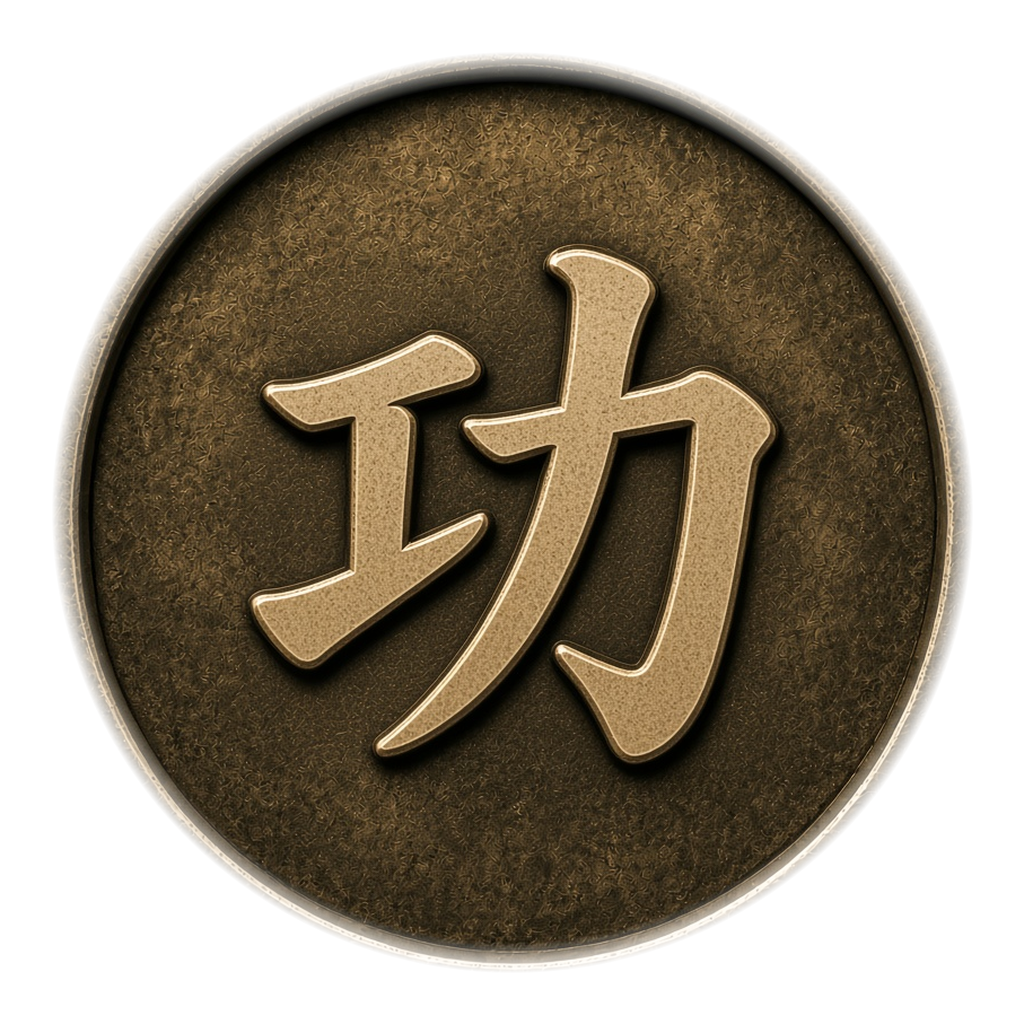
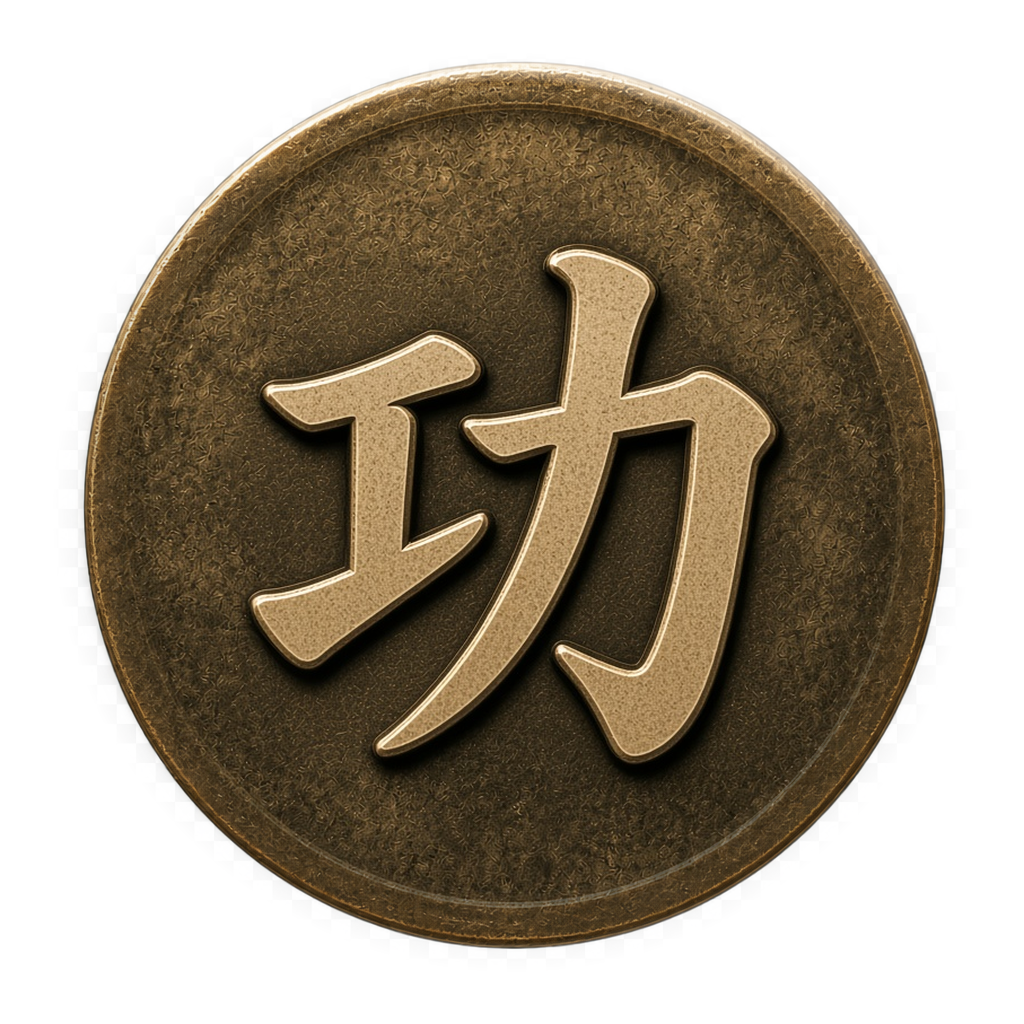
Musiq

Changed region(s): [[0.0312, 0.0312, 0.9688, 0.9688]]

diff --git a/src/styles/viewer.css b/src/styles/viewer.css
@@ -30,6 +30,7 @@ body {
   --badge-jing: url('/ui/silver/badge-jing.png');
   --badge-zhi: url('/ui/silver/badge-zhi.png');
   --badge-gong: url('/ui/silver/badge-gong.png');
+  --badge-yin: url('/ui/silver/badge-yin.png');
   --minimap-paper: url('/ui/silver/paper.png');
   /* Silver metal 令牌 + coloured ribbons */
   --lingpai-handi: url('/ui/silver/handi-lingpai.png');
@@ -56,6 +57,7 @@ body {
   --badge-jing: url('/ui/bronze/badge-jing.png');
   --badge-zhi: url('/ui/bronze/badge-zhi.png');
   --badge-gong: url('/ui/bronze/badge-gong.png');
+  --badge-yin: url('/ui/bronze/badge-yin.png');
   --minimap-paper: url('/ui/bronze/paper.png');
   /* Ebony wood 令牌 + coloured ribbons (original tablets) */
   --lingpai-handi: url('/ui/bronze/handi-lingpai.png');
@@ -225,6 +227,15 @@ body {
   background-image: var(--badge-gong);
 }
 #btn-credits[aria-pressed='true'] {
+  filter: drop-shadow(0 2px 4px var(--badge-shadow)) brightness(1.08);
+}
+#btn-music {
+  background-image: var(--badge-yin);
+}
+#btn-music[aria-pressed='false'] {
+  opacity: 0.8;
+}
+#btn-music[aria-pressed='true'] {
   filter: drop-shadow(0 2px 4px var(--badge-shadow)) brightness(1.08);
 }
 

diff --git a/src/lib/playlist.ts b/src/lib/playlist.ts
@@ -26,6 +26,7 @@ class MapPlaylist {
   private fadeGen = 0
   private unlockBound = false
   private started = false
+  private muted = false
   private readonly unlockHandler = (e: PointerEvent) => this.onUnlockPointer(e)
   private readonly onAudioEnded = () => this.onEnded()
 
@@ -33,8 +34,24 @@ class MapPlaylist {
     this.bindAudio(this.audio)
   }
 
+  isMuted(): boolean {
+    return this.muted
+  }
+
+  /** Silence or restore soundtrack without stopping the playlist timeline. */
+  setMuted(muted: boolean): void {
+    this.muted = muted
+    this.audio.muted = muted
+  }
+
+  toggleMuted(): boolean {
+    this.setMuted(!this.muted)
+    return this.muted
+  }
+
   private bindAudio(el: HTMLAudioElement): void {
     el.preload = 'auto'
+    el.muted = this.muted
     el.addEventListener('ended', this.onAudioEnded)
   }
 
@@ -111,6 +128,7 @@ class MapPlaylist {
     const gen = ++this.fadeGen
     const next = new Audio()
     next.preload = 'auto'
+    next.muted = this.muted
     next.loop = opts.loop
     next.src = src
     next.volume = 0

diff --git a/src/viewer/musicToggle.ts b/src/viewer/musicToggle.ts
@@ -1,0 +1,22 @@
+import { getPlaylist } from '../lib/playlist'
+
+function syncMusicButton(enabled: boolean): void {
+  const btn = document.querySelector<HTMLButtonElement>('#btn-music')
+  if (!btn) return
+  btn.setAttribute('aria-pressed', enabled ? 'true' : 'false')
+  btn.title = enabled ? '音 — Mute music' : '音 — Enable music'
+}
+
+/** Wire #btn-music (音) to mute / unmute the soundtrack. */
+export function mountMusicToggle(): void {
+  const btn = document.querySelector<HTMLButtonElement>('#btn-music')
+  if (!btn) throw new Error('Missing #btn-music')
+
+  const playlist = getPlaylist()
+  syncMusicButton(!playlist.isMuted())
+
+  btn.addEventListener('click', () => {
+    const muted = playlist.toggleMuted()
+    syncMusicButton(!muted)
+  })
+}

diff --git a/src/viewer/bootViewer.ts b/src/viewer/bootViewer.ts
@@ -7,6 +7,7 @@ import { mountLabelToggle, mountLocationLabels } from '../popups/labels'
 import { mountChrome } from './chrome'
 import { focusIntroRegion, mountIntro } from './intro'
 import { mountFocusMode } from './focusMode'
+import { mountMusicToggle } from './musicToggle'
 
 const PREVIEW_URL = '/map-preview.jpg'
 const TILE_SOURCE = '/tiles/map.dzi'
@@ -110,6 +111,7 @@ export function bootInteractiveViewer(opts: BootInteractiveOptions = {}): OpenSe
   mountOverlaySealControls()
   mountLocationLabels(viewer)
   mountLabelToggle()
+  mountMusicToggle()
   mountCreditsToggle()
 
   function lockMinZoomToHome(): void {

diff --git a/atlab.html b/atlab.html
@@ -54,6 +54,14 @@
             <button
               type="button"
               class="badge-btn"
+              id="btn-music"
+              title="音 — Mute music"
+              aria-label="音"
+              aria-pressed="true"
+            ></button>
+            <button
+              type="button"
+              class="badge-btn"
               id="btn-credits"
               title="功 — Show credits"
               aria-label="功"

diff --git a/index.html b/index.html
@@ -51,6 +51,14 @@
         <button
           type="button"
           class="badge-btn"
+          id="btn-music"
+          title="音 — Mute music"
+          aria-label="音"
+          aria-pressed="true"
+        ></button>
+        <button
+          type="button"
+          class="badge-btn"
           id="btn-credits"
           title="功 — Show credits"
           aria-label="功"
